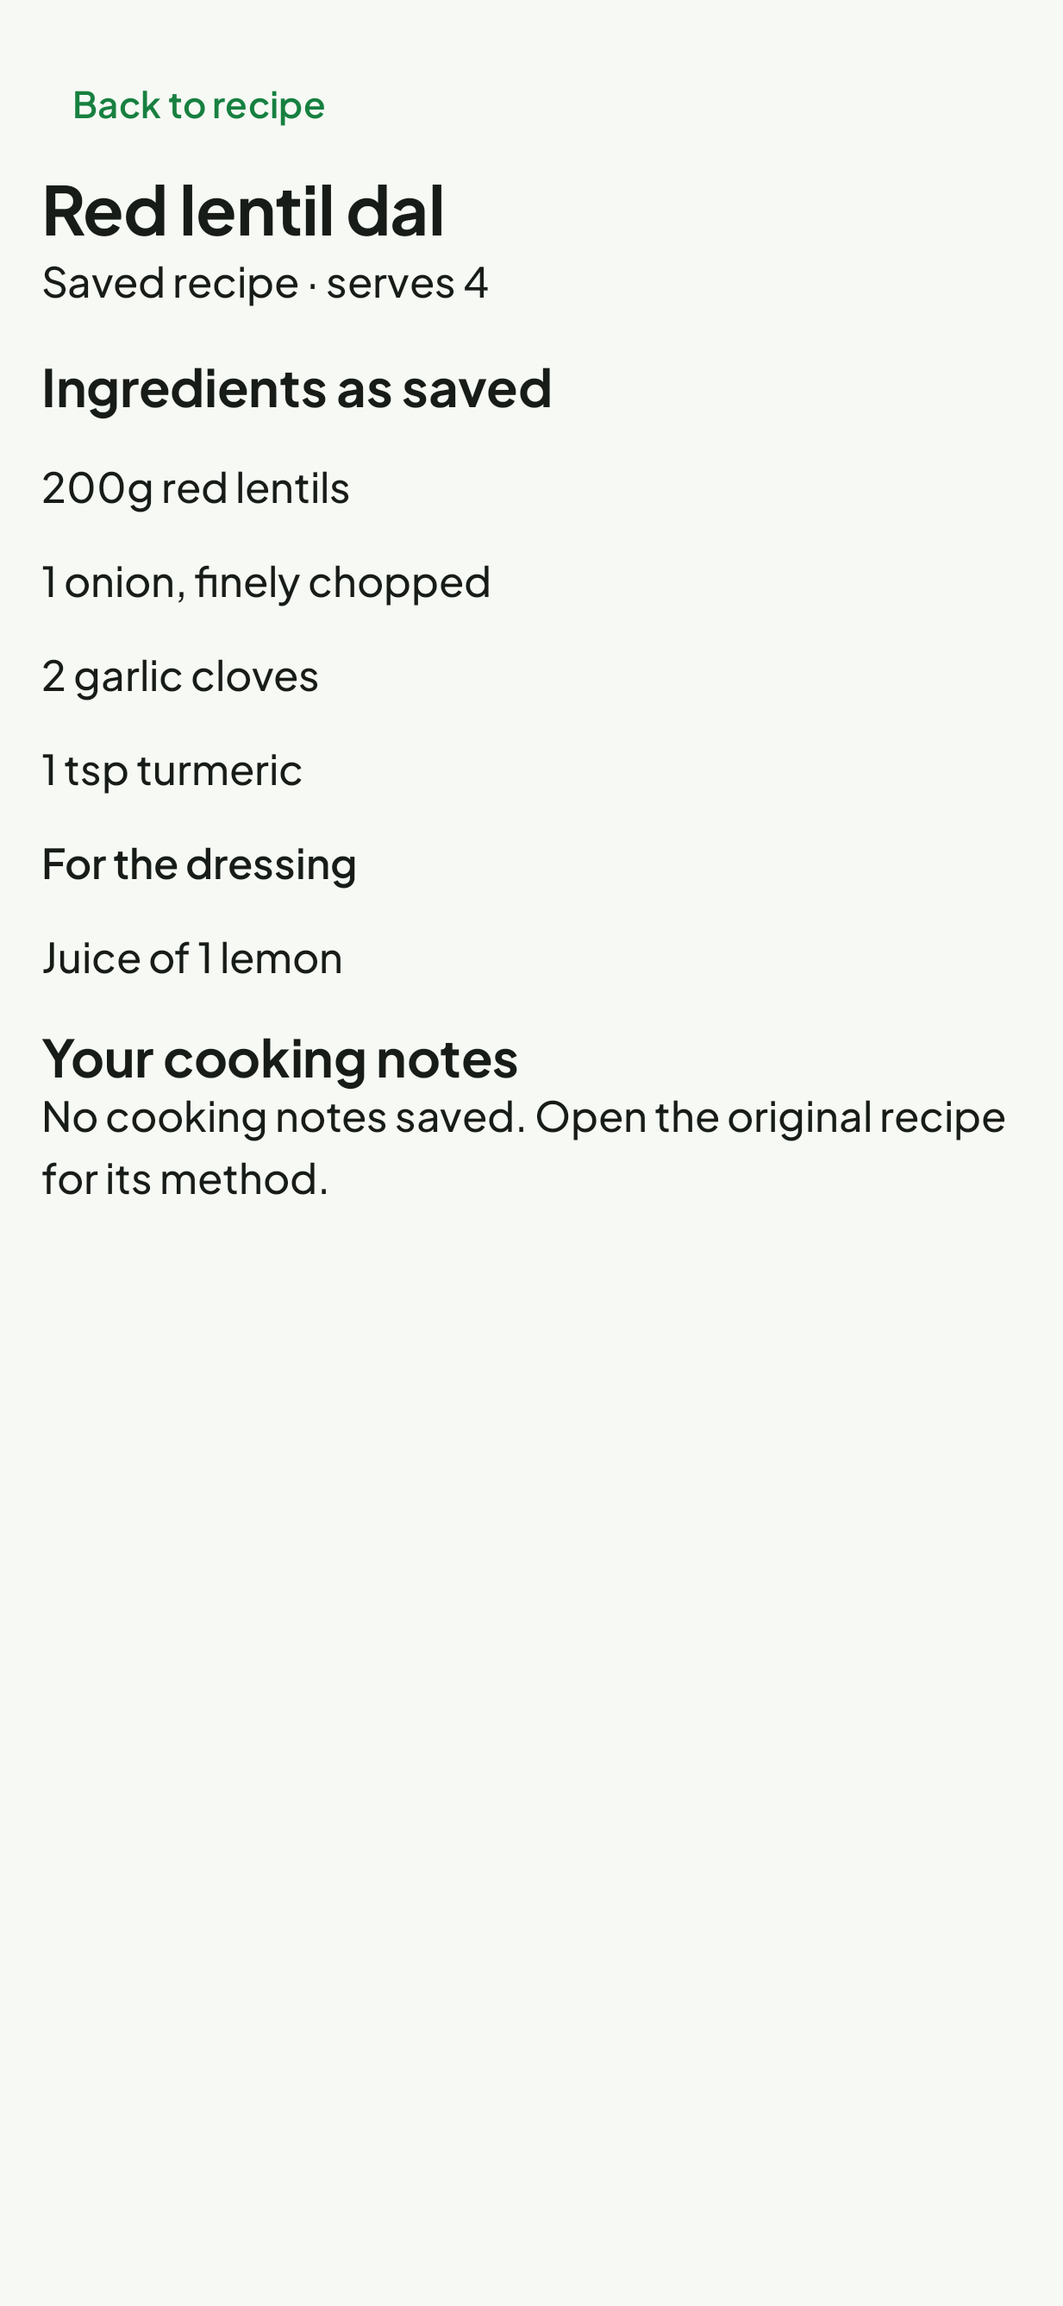
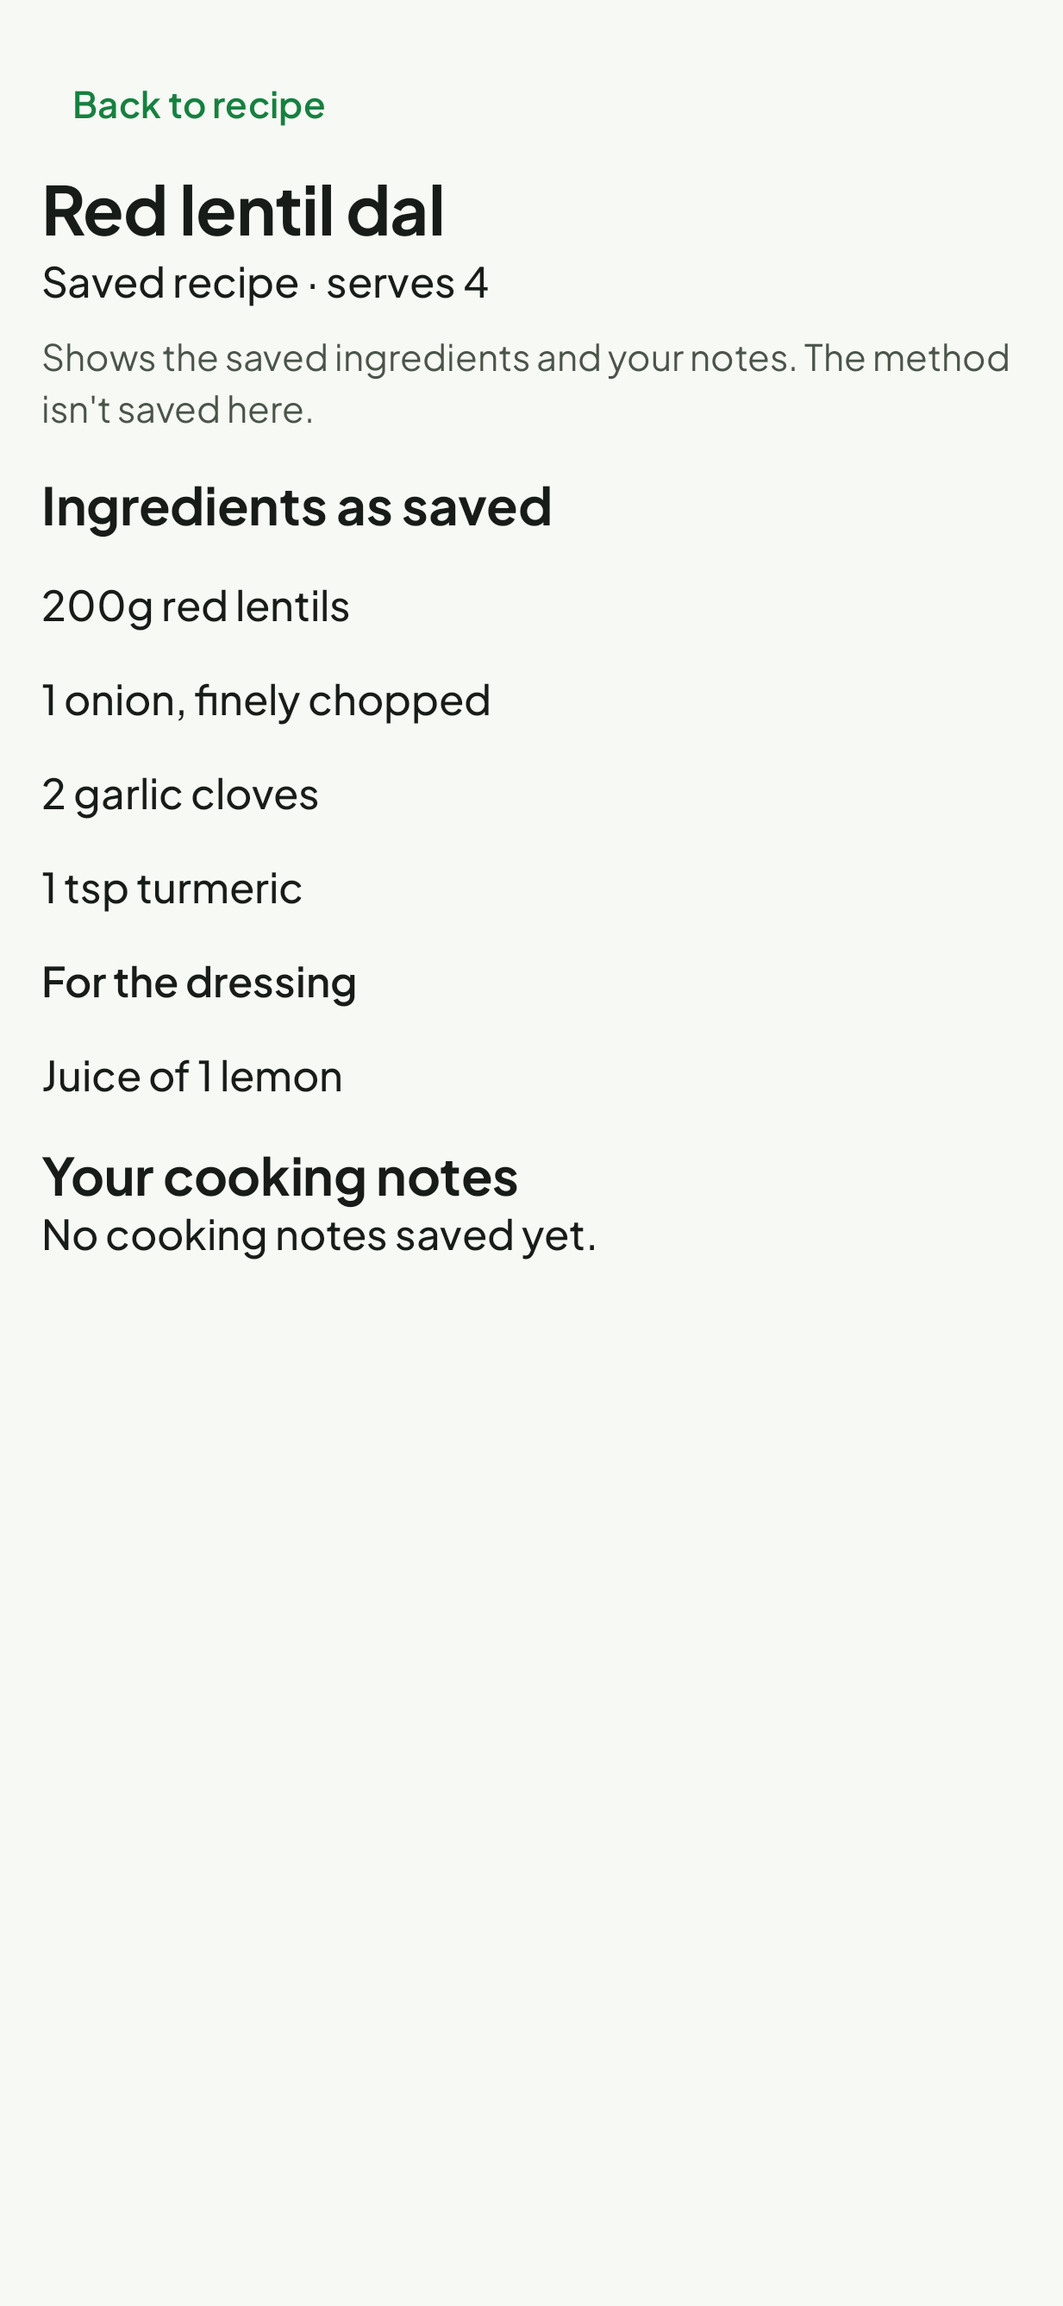
[P.5] Make the weekly next action match the week and state the cooking view's scope
Claude-Session: https://claude.ai/code/session_01XHyUGy4dvVQgc3pT56A2Zd

Changed region(s): [[0.0308, 0.1553, 0.5856, 0.5589], [0.6164, 0.4658, 0.9554, 0.4968]]

diff --git a/android/app/src/main/java/com/robert4lyf/hypershop/ui/recipes/CookingView.kt b/android/app/src/main/java/com/robert4lyf/hypershop/ui/recipes/CookingView.kt
@@ -3,10 +3,17 @@ package com.robert4lyf.hypershop.ui.recipes
 import androidx.compose.foundation.layout.Arrangement
 import androidx.compose.foundation.layout.Column
 import androidx.compose.foundation.layout.PaddingValues
+import androidx.compose.foundation.layout.Spacer
 import androidx.compose.foundation.layout.fillMaxSize
+import androidx.compose.foundation.layout.heightIn
 import androidx.compose.foundation.layout.padding
+import androidx.compose.foundation.layout.size
 import androidx.compose.foundation.lazy.LazyColumn
 import androidx.compose.foundation.lazy.items
+import androidx.compose.material.icons.Icons
+import androidx.compose.material.icons.automirrored.rounded.OpenInNew
+import androidx.compose.material3.FilledTonalButton
+import androidx.compose.material3.Icon
 import androidx.compose.material3.MaterialTheme
 import androidx.compose.material3.Surface
 import androidx.compose.material3.Text
@@ -25,7 +32,10 @@ import androidx.lifecycle.compose.LocalLifecycleOwner
 import com.robert4lyf.hypershop.ui.common.rememberOpenLink
 import com.robert4lyf.hypershop.ui.common.webLink
 
-/** Saved text only: serving context and source remain available; no generated instructions. */
+/**
+ * Saved text only: the ingredients as saved and your notes, with serving context and the original recipe a tap away.
+ * It says so, since no method is kept; nothing is generated in its place.
+ */
 @Composable
 internal fun CookingView(
     detail: RecipeDetail,
@@ -50,7 +60,29 @@ internal fun CookingView(
                 TextButton(onClick = onClose) { Text("Back to recipe") }
                 Text(detail.row.title, style = MaterialTheme.typography.headlineMedium)
                 Text(detail.servings?.let { "Saved recipe · serves $it" } ?: "Saved recipe · servings not recorded")
-                webLink(detail.row.url)?.let { url -> TextButton(onClick = { open(url) }) { Text("Open original recipe") } }
+                // What this view is: the ingredients and notes kept here. The method is the recipe's own, not copied.
+                val url = webLink(detail.row.url)
+                Text(
+                    when {
+                        url != null ->
+                            "Shows the saved ingredients and your notes. The method isn't saved here: open the original for the steps."
+                        detail.row.bookRef != null -> "Shows the saved ingredients and your notes. The method is in ${detail.row.bookRef}."
+                        else -> "Shows the saved ingredients and your notes. The method isn't saved here."
+                    },
+                    style = MaterialTheme.typography.bodyMedium,
+                    color = MaterialTheme.colorScheme.onSurfaceVariant,
+                    modifier = Modifier.padding(top = 8.dp).testTag("cooking-scope"),
+                )
+                url?.let {
+                    FilledTonalButton(
+                        onClick = { open(it) },
+                        modifier = Modifier.padding(top = 8.dp).heightIn(min = 48.dp).testTag("cooking-original"),
+                    ) {
+                        Icon(Icons.AutoMirrored.Rounded.OpenInNew, contentDescription = null, modifier = Modifier.size(18.dp))
+                        Spacer(Modifier.size(8.dp))
+                        Text("Open original recipe")
+                    }
+                }
                 LazyColumn(contentPadding = PaddingValues(vertical = 16.dp), verticalArrangement = Arrangement.spacedBy(16.dp)) {
                     item { Text("Ingredients as saved", style = MaterialTheme.typography.titleLarge) }
                     detail.sections.forEachIndexed { index, (heading, lines) ->
@@ -60,7 +92,7 @@ internal fun CookingView(
                     item {
                         Text("Your cooking notes", style = MaterialTheme.typography.titleLarge)
                         Text(
-                            detail.row.notes ?: "No cooking notes saved. Open the original recipe for its method.",
+                            detail.row.notes ?: "No cooking notes saved yet.",
                             style = MaterialTheme.typography.bodyLarge,
                         )
                     }

diff --git a/android/app/src/main/java/com/robert4lyf/hypershop/ui/meals/MealsRoute.kt b/android/app/src/main/java/com/robert4lyf/hypershop/ui/meals/MealsRoute.kt
@@ -305,7 +305,14 @@ private fun WeekHeader(
 /** "3 meals · 5 items still needed": what am I cooking, what is left to buy. */
 private fun summary(ui: MealsUi): String? =
     when {
-        ui.meals.isEmpty() -> if (ui.isPast) "Nothing was planned" else "Nothing planned yet"
+        ui.meals.isEmpty() ->
+            when {
+                ui.isPast -> "Nothing was planned"
+                // The next step, in the header where it is seen first: the picks below, or a first recipe.
+                !ui.loaded -> "Nothing planned yet"
+                ui.hasLibrary -> "Nothing planned yet · choose meals below"
+                else -> "Nothing planned yet · add a recipe to start"
+            }
         ui.pending > 0 -> "${plural(ui.meals.size, "meal")} · ${ui.pending} not on the shopping list yet"
         ui.itemsLeft > 0 -> "${plural(ui.meals.size, "meal")} · ${plural(ui.itemsLeft, "item")} still needed"
         else -> plural(ui.meals.size, "meal")
@@ -854,14 +861,29 @@ private fun BottomBar(
                     }
                 }
             }
-        ui.isCurrent && ui.listHasItems ->
+        ui.isCurrent && ui.listHasItems -> {
+            // A shop under way carries on where it is (no store asked again); otherwise one starts.
+            val label = if (ui.shopping) "Continue shopping" else "Start shopping"
+            val detail =
+                when {
+                    ui.listLeft == 0 -> if (ui.shopping) "Everything is ticked · finish on the list" else null
+                    ui.shopping -> "${plural(ui.listLeft, "item")} left to buy"
+                    else -> "${plural(ui.listLeft, "item")} to buy"
+                }
             BottomActionBar(navigationBarInset = false) {
-                Button(onClick = actions.onStartShopping, modifier = Modifier.weight(1f).heightIn(min = 52.dp).testTag("meals-shop")) {
+                Button(
+                    onClick = if (ui.shopping) actions.onList else actions.onStartShopping,
+                    modifier = Modifier.weight(1f).heightIn(min = 52.dp).testTag("meals-shop"),
+                ) {
                     Icon(Icons.Rounded.ShoppingCart, contentDescription = null, modifier = Modifier.size(18.dp))
                     Spacer(Modifier.size(8.dp))
-                    Text("Start shopping")
+                    Column(horizontalAlignment = Alignment.CenterHorizontally) {
+                        Text(label)
+                        detail?.let { Text(it, style = MaterialTheme.typography.labelSmall) }
+                    }
                 }
             }
+        }
         else -> Unit
     }
 }

diff --git a/android/app/src/test/java/com/robert4lyf/hypershop/ui/meals/MealsScreenTest.kt b/android/app/src/test/java/com/robert4lyf/hypershop/ui/meals/MealsScreenTest.kt
@@ -1,5 +1,8 @@
 package com.robert4lyf.hypershop.ui.meals
 
+import androidx.compose.runtime.getValue
+import androidx.compose.runtime.mutableStateOf
+import androidx.compose.runtime.setValue
 import androidx.compose.ui.test.assertHeightIsAtLeast
 import androidx.compose.ui.test.assertIsDisplayed
 import androidx.compose.ui.test.assertTextContains
@@ -163,6 +166,33 @@ class MealsScreenTest {
         scrollTo("pick-k3")
         compose.onNodeWithTag("pick-add-k3").performClick()
         assertEquals(listOf("shop", "plan Fish pie"), events)
+    }
+
+    @Test
+    fun theBottomActionFollowsWhereTheWeekStands() {
+        val added = ui.meals.map { it.copy(shopping = MealShopping.TO_BUY, progress = UseProgress(1, 0, 0, 0)) }
+        var u by mutableStateOf(ui)
+        compose.setContent { HyperShopTheme(dynamicColor = false) { MealsScreen(u, actions.copy(onList = { events += "list" })) } }
+        // Meals waiting: add them.
+        compose.onNodeWithTag("meals-add-to-list").assertExists()
+        compose.onNodeWithTag("meals-shop").assertDoesNotExist()
+        // All added, a shop to start: how much it is.
+        u = ui.copy(meals = added, preview = null, listLeft = 7)
+        compose.onNodeWithText("Start shopping").assertExists()
+        compose.onNodeWithText("7 items to buy").assertExists()
+        compose.onNodeWithTag("meals-shop").performClick()
+        // A shop under way: carry on, without starting again (no store asked twice).
+        u = ui.copy(meals = added, preview = null, listLeft = 3, shopping = true)
+        compose.onNodeWithText("Continue shopping").assertExists()
+        compose.onNodeWithText("3 items left to buy").assertExists()
+        compose.onNodeWithTag("meals-shop").performClick()
+        u = ui.copy(meals = added, preview = null, listLeft = 0, shopping = true)
+        compose.onNodeWithText("Everything is ticked · finish on the list").assertExists()
+        // Nothing on the list and nothing planned: the header says what to do next.
+        u = ui.copy(meals = emptyList(), preview = null, listHasItems = false, listLeft = 0)
+        compose.onNodeWithTag("meals-shop").assertDoesNotExist()
+        compose.onNodeWithText("19–25 Oct · Nothing planned yet · choose meals below").assertExists()
+        assertEquals(listOf("shop", "list"), events)
     }
 
     @Test

diff --git a/android/app/src/test/java/com/robert4lyf/hypershop/ui/recipes/RecipesScreenTest.kt b/android/app/src/test/java/com/robert4lyf/hypershop/ui/recipes/RecipesScreenTest.kt
@@ -10,6 +10,7 @@ import androidx.compose.ui.test.assertCountEquals
 import androidx.compose.ui.test.assertIsEnabled
 import androidx.compose.ui.test.assertIsNotEnabled
 import androidx.compose.ui.test.assertTextContains
+import androidx.compose.ui.test.assertTextEquals
 import androidx.compose.ui.test.getUnclippedBoundsInRoot
 import androidx.compose.ui.test.hasAnyAncestor
 import androidx.compose.ui.test.hasTestTag
@@ -210,6 +211,29 @@ class RecipesScreenTest {
         compose.onNodeWithTag("cooking-view").captureRoboImage(Shots.path("cooking-view-light.png"))
         compose.onNodeWithText("Back to recipe").performClick()
         compose.onNodeWithTag("cooking-view").assertDoesNotExist()
+    }
+
+    @Test
+    fun cookingViewSaysItHoldsNoMethodAndOffersTheOriginal() {
+        // No link and no book: it says plainly what it shows, and invents nothing.
+        var detail by mutableStateOf(DETAIL)
+        compose.setContent { HyperShopTheme(dynamicColor = false) { RecipeDetailContent(detail, onAdd = {}) } }
+        compose.onNodeWithTag("cook-recipe").performClick()
+        compose.onNodeWithTag("cooking-scope").assertTextEquals("Shows the saved ingredients and your notes. The method isn't saved here.")
+        compose.onNodeWithTag("cooking-original").assertDoesNotExist()
+        compose.onNodeWithText("Back to recipe").performClick()
+        // From a book: where the method is.
+        detail = DETAIL.copy(row = DETAIL.row.copy(bookRef = "Ottolenghi Simple · p. 142"))
+        compose.onNodeWithTag("cook-recipe").performClick()
+        compose.onNodeWithTag("cooking-scope").assertTextEquals(
+            "Shows the saved ingredients and your notes. The method is in Ottolenghi Simple · p. 142.",
+        )
+        compose.onNodeWithText("Back to recipe").performClick()
+        // From a page: the original is one tap away.
+        detail = DETAIL.copy(row = DETAIL.row.copy(url = "https://recipes.example/dal"))
+        compose.onNodeWithTag("cook-recipe").performClick()
+        compose.onNodeWithTag("cooking-original").assertExists()
+        compose.onNodeWithTag("cooking-view").captureRoboImage(Shots.path("cooking-view-link-light.png"))
     }
 
     @Test

diff --git a/android/app/src/main/java/com/robert4lyf/hypershop/ui/meals/MealsViewModel.kt b/android/app/src/main/java/com/robert4lyf/hypershop/ui/meals/MealsViewModel.kt
@@ -113,6 +113,10 @@ data class MealsUi(
     val home: List<HomeRow> = emptyList(),
     /** Something on the list to shop for. */
     val listHasItems: Boolean = false,
+    /** Rows on the list not yet bought or set aside: what a shop would still buy. */
+    val listLeft: Int = 0,
+    /** A shop is under way (the list is in shopping mode with something on it): the next step is to carry on. */
+    val shopping: Boolean = false,
 ) {
     val pending: Int get() = meals.count { it.shopping.pending }
 
@@ -203,7 +207,7 @@ class MealsViewModel(
 
     val ui: StateFlow<MealsUi> =
         combine(
-            combine(weekView, c.repository.list) { v, l -> v to l },
+            combine(weekView, c.repository.list, c.settings.listMode) { v, l, m -> Triple(v, l, m) },
             combine(
                 c.repository.observeLibrary(),
                 c.recipePhotos.paths(),
@@ -213,7 +217,7 @@ class MealsViewModel(
             snapshotFlow { query },
             asked,
             extras,
-        ) { (v, list), (lib, photos, notes, planned), q, asked, (buy, home) ->
+        ) { (v, list, mode), (lib, photos, notes, planned), q, asked, (buy, home) ->
             val meals =
                 v.meals.map {
                     it.toMeal().copy(photo = photos[it.libraryKey], notes = notes[it.libraryKey]?.notes).let { m ->
@@ -266,6 +270,8 @@ class MealsViewModel(
                 buyAgain = buy,
                 home = home,
                 listHasItems = list.liveItems.isNotEmpty(),
+                listLeft = list.liveItems.count { !list.isDone(it.id) && !list.isUnavailable(it.id) },
+                shopping = mode == com.robert4lyf.hypershop.settings.ListMode.SHOP && list.liveItems.isNotEmpty(),
             )
         }.flowOn(Dispatchers.Default)
             .stateIn(viewModelScope, SharingStarted.WhileSubscribed(5_000), MealsUi())

diff --git a/android/app/src/test/java/com/robert4lyf/hypershop/ui/meals/MealsViewModelTest.kt b/android/app/src/test/java/com/robert4lyf/hypershop/ui/meals/MealsViewModelTest.kt
@@ -116,6 +116,24 @@ class MealsViewModelTest {
     }
 
     @Test
+    fun theWeekKnowsWhatIsLeftToBuyAndWhetherAShopIsUnderWay() {
+        val c = container()
+        val vm = MealsViewModel(c).shown()
+        runBlocking {
+            c.repository.manualAdd("bread", QtyBase.of(Rational.ONE, null, UnitLocale.METRIC), null)
+            c.repository.manualAdd("milk", QtyBase.of(Rational.ONE, null, UnitLocale.METRIC), null)
+        }
+        val planning = await(vm.ui) { it.listLeft == 2 }
+        assertTrue(planning.listHasItems)
+        assertTrue(!planning.shopping)
+        runBlocking { c.settings.setListMode(ListMode.SHOP) }
+        await(vm.ui) { it.shopping && it.listLeft == 2 }
+        // A tick leaves one to buy; the shop is still under way.
+        runBlocking { c.repository.toggle(c.repository.snapshot().itemByKey("cat:bread")!!.id) }
+        await(vm.ui) { it.shopping && it.listLeft == 1 }
+    }
+
+    @Test
     fun thisWeekMovesOnWithTheClock() {
         // Review B.12: the view model lives for the process; Monday must not show last week as "This week".
         var now = 1_760_000_000_000L

diff --git a/PROGRESS.md b/PROGRESS.md
@@ -330,3 +330,4 @@ Follows the review of 34898f0 (build 308). Report: `docs/reports/2026-11-step-p.
 - [x] P.2 A unit with no conversion asks for the amount: g → kg and ml → l still convert exactly, but g → ml or a count → kg opens "Change to ml" with an empty amount field beside the unit, a one-line reason, an inline error that keeps what was typed (blank, zero, negative, not a number), and Use enabled only for a positive amount ("Use 300 ml"). Fractions stay as typed ("1/3 kg"). Cancel changes nothing; Use changes the draft only and Save keeps it. The question and the typed amount survive recreation. The editor shows the current unit, its exact alternatives and a count, with the rest behind "More units"; its explanatory copy is shorter. The dialog follows N.8's full-width pattern, which a platform-width dialog with a field needs to settle — check: `UnitChangeTest`, `ItemSheetTest`, screenshots `unit-change-*`, `item-editor-dark-large`
 - [x] P.3 Discarding edits finishes what was asked: with unsaved edits, Mark bought, Mark not bought, Remove and Swap each ask "Discard edits and mark bought" (… mark not bought, … remove, … swap for shallot) and then do exactly that once; Back or a swipe asks "Discard changes" and only closes. Keep editing or dismissing the question runs nothing and keeps the draft, and nothing backed out of runs later. The request is kept as a saved description (`PendingSheetAction`), not a callback: after recreation the question is shown again and acts only when confirmed; an unreadable saved value restores as nothing pending. Taps within a second act once, nothing runs while saving, and a tick already made elsewhere is not undone — check: `ItemSheetHostTest` (the real `ItemSheetHost` with list-like actions)
 - [x] P.4 The widget's preview opens the list and only Add item opens the Add field: two PendingIntents with their own actions and request codes (`EntryRequest.ACTION_OPEN_LIST`, `ACTION_ADD`, unchanged for the launcher shortcut). Both are held as an `EntryRequest` until the app shell, composed only once start-up is ready, takes it; a list request never focuses the field and drops a focus still waiting, and a focus request is used once (the field no longer refocuses when it scrolls back in or the tab is revisited) and brings the list to its top. An entry request keeps a returning user's empty list from switching to This week. Two defects found on the way: a request waiting at a cold start navigated before NavHost had its graph (a crash, the launcher shortcut included), and Add resumed off the main thread after writing the list mode; both now wait for the graph on the main thread. Accessible descriptions name each tap — check: `EntryPointsTest` (PendingIntents, `MainActivity` cold start, new intent, Recents), `EntryNavigationTest` (real `HyperShopApp` navigation), `StartupTest`. Launcher and on-device widget taps are not run here
+- [x] P.5 This week's bottom action follows the week: Add N meals while meals wait; Start shopping with "N items to buy" once they are on; Continue shopping with "N left to buy" (or "Everything is ticked · finish on the list") while a shop is under way, opening the list without asking for the store again (`MealsUi.listLeft`, `shopping`). With nothing planned, the header says the next step ("choose meals below", or "add a recipe to start"). Picks, New recipe, Buy again and the At home check are where they were. The cooking view says what it holds (the saved ingredients and your notes, no method) and where the method is: the original as a button, or the book and page — check: `MealsScreenTest`, `MealsViewModelTest`, `RecipesScreenTest`, screenshot `cooking-view-link-light`
